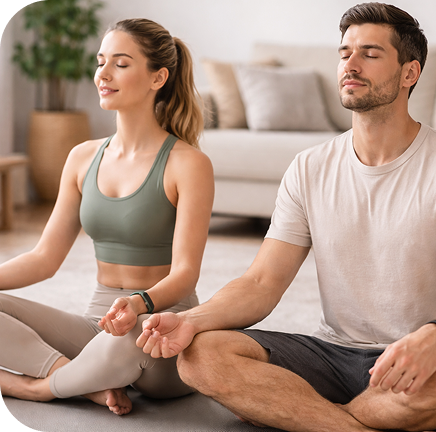
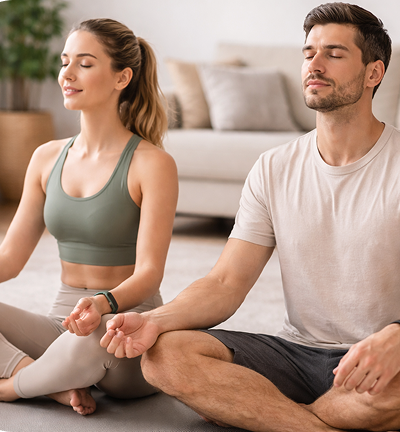
fix(ui): css improved

diff --git a/wordpress/wp-content/themes/harmony-theme/assets/css/components.css b/wordpress/wp-content/themes/harmony-theme/assets/css/components.css
@@ -56,9 +56,9 @@
 /* image-triptical */
 
 .img-triptical {
-    display: flex;
-    justify-content: center;
-    align-items: stretch;
+    display: grid;
+    grid-template-columns: repeat(3, minmax(0, 1fr));
+    grid-auto-rows: 1fr;
     width: 100%;
     max-width: 1250px;
     height: 100%;
@@ -66,13 +66,23 @@
     gap: 20px;
 }
 
-.img-triptical div img {
+.img-triptical > div {
+    display: flex;
+    flex-direction: column;
+    min-width: 0;
+    gap: var(--space-xs);
+}
+
+.img-triptical > div img {
+    display: block;
     height: 400px;
     width: 100%;
+    object-fit: cover;
 }
 
 .triptical-card {
     display: flex;
+    flex: 1;
     padding: 8px;
     flex-direction: column;
     align-items: center;
@@ -81,14 +91,6 @@
     border: 1px solid var(--color-main-blue);
 }
 
-.img-triptical div:nth-child(1) .triptical-card {
-    border-radius: 
-        var(--radius-lg) 0 0 var(--radius-lg);
-}
-
-.img-triptical div:nth-child(3) .triptical-card {
-    border-radius: 0 var(--radius-lg) var(--radius-lg) 0;
-}
 
 .eco-responsibility-image {
     width: 100%;
@@ -100,11 +102,11 @@
 
 @media (max-width: 1020px) {
     .img-triptical {
-        flex-direction: column;
+        grid-template-columns: minmax(0, 1fr);
         gap: var(--space-xs);
     }
 
-    .img-triptical div img {
+    .img-triptical > div img {
         display: none;
     }
 
@@ -113,13 +115,6 @@
         gap: var(--space-xs);
     }
 
-    .img-triptical div:nth-child(1) .triptical-card {
-        border-radius: var(--radius-lg) var(--radius-lg) 0 0;
-    }
-
-    .img-triptical div:nth-child(3) .triptical-card {
-        border-radius: 0 0 var(--radius-lg) var(--radius-lg);
-    }
 
 }
 
@@ -136,7 +131,7 @@
 
 .advantage-card-container {
     display: flex;
-    align-items: center;
+    align-items: stretch;
     gap: var(--space-xs);
     align-self: stretch;
 }

diff --git a/wordpress/wp-content/themes/harmony-theme/functions.php b/wordpress/wp-content/themes/harmony-theme/functions.php
@@ -257,9 +257,7 @@ function harmony_send_welcome_email($email, $firstname = '', $display_name = '')
                         <tr>
                             <td align="center" style="background-color:#285F6E; padding:30px 20px;">
 
-                                <h1 style="margin:0; color:#FFFFFF; font-size:30px; font-weight:600; letter-spacing:1px;">
-                                    Harmony
-                                </h1>
+                                <img src="' . esc_url(get_template_directory_uri() . '/assets/images/logo/Logo_neutral.svg') . '" alt="Harmony" style="display:block; height:30px; width:auto; margin:0 auto;">
 
                                 <p style="margin:8px 0 0; color:#FFFFFF; font-size:12px; letter-spacing:2px;">
                                     PRENEZ SOIN DE VOUS, SIMPLEMENT.

diff --git a/wordpress/wp-content/themes/harmony-theme/template-parts/components/image-triptical.php b/wordpress/wp-content/themes/harmony-theme/template-parts/components/image-triptical.php
@@ -3,7 +3,7 @@
 ?>
 
 <div class="img-triptical">
-    <div>
+    <div class="triptical-col">
         <img
             src="/wp-content/themes/harmony-theme/assets/images/component/triptical/meditation 1.png"
             alt="Femme méditant assise sur un tapis avec un bracelet connecté Harmony"
